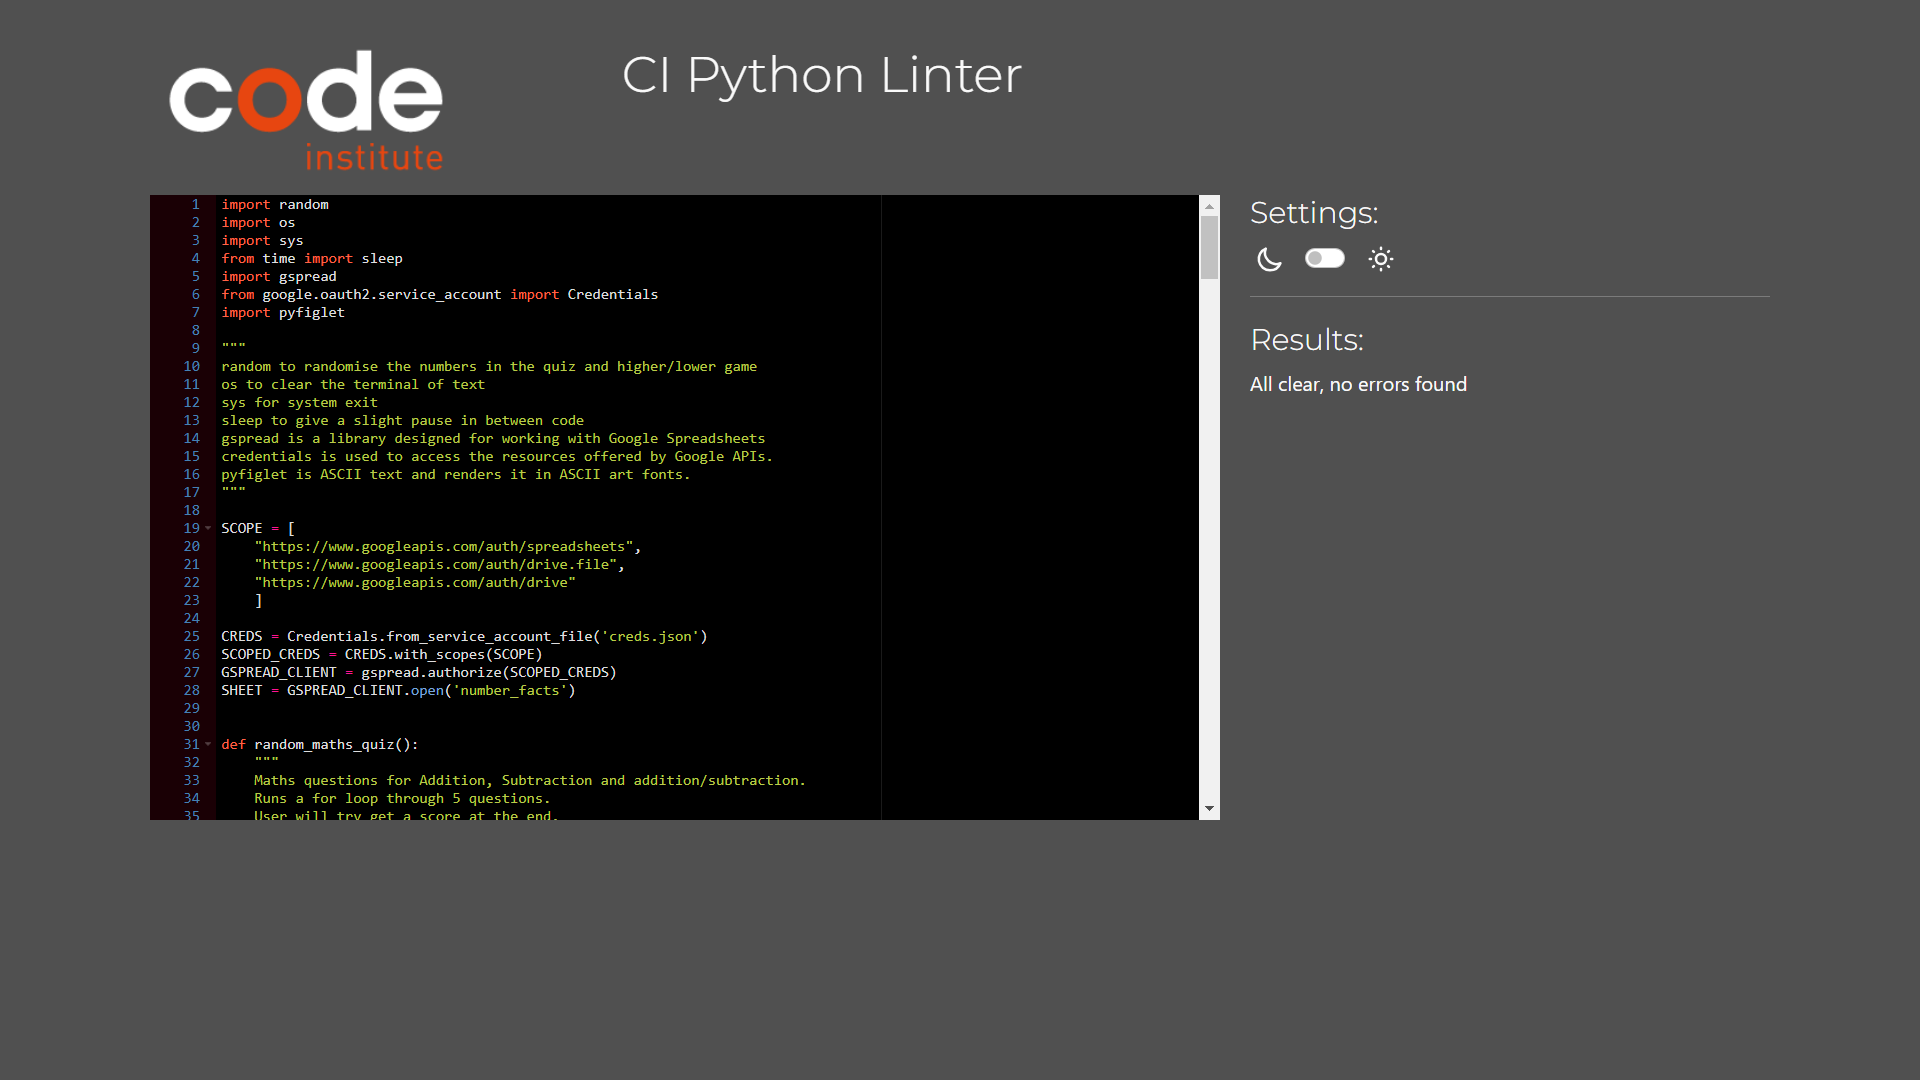
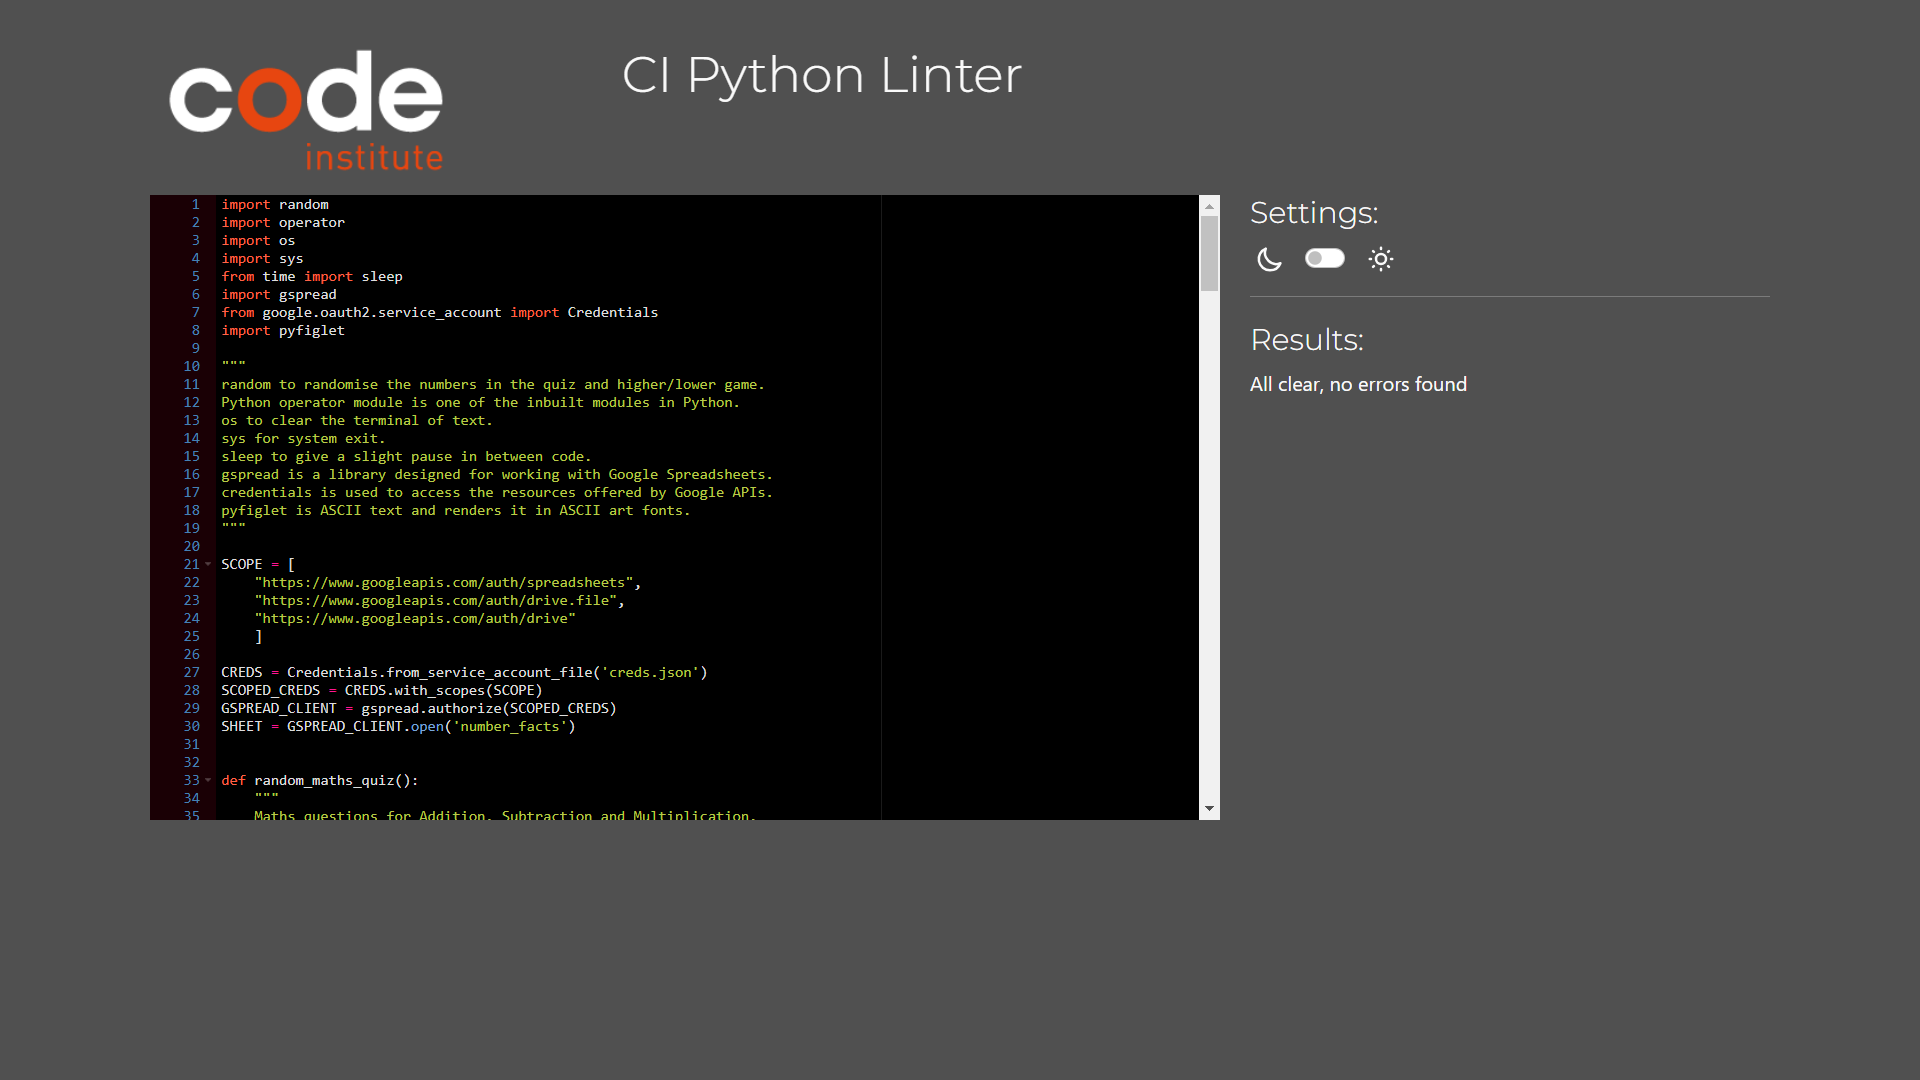
Code refactor and images updated

diff --git a/run.py b/run.py
@@ -1,4 +1,5 @@
 import random
+import operator
 import os
 import sys
 from time import sleep
@@ -7,11 +8,12 @@ from google.oauth2.service_account import Credentials
 import pyfiglet
 
 """
-random to randomise the numbers in the quiz and higher/lower game
-os to clear the terminal of text
-sys for system exit
-sleep to give a slight pause in between code
-gspread is a library designed for working with Google Spreadsheets
+random to randomise the numbers in the quiz and higher/lower game.
+Python operator module is one of the inbuilt modules in Python.
+os to clear the terminal of text.
+sys for system exit.
+sleep to give a slight pause in between code.
+gspread is a library designed for working with Google Spreadsheets.
 credentials is used to access the resources offered by Google APIs.
 pyfiglet is ASCII text and renders it in ASCII art fonts.
 """
@@ -30,148 +32,12 @@ SHEET = GSPREAD_CLIENT.open('number_facts')
 
 def random_maths_quiz():
     """
-    Maths questions for Addition, Subtraction and addition/subtraction.
+    Maths questions for Addition, Subtraction and Multiplication.
     Runs a for loop through 5 questions.
-    User will try get a score at the end.
+    User will get a score shown at the end.
     if the user inputs a wrong character the question will be marked wrong.
     User is asked if they want to play another game.
     """
-
-    def addition():
-        score = 0
-        print("Addition Maths")
-        for i in range(5):
-            num1 = random.randint(1, 5)
-            num2 = random.randint(1, 5)
-            result = num1 + num2
-            guess_input = input(f"What is {num1} + {num2} =\n")
-
-            try:
-                guess_input = int(guess_input)
-                if guess_input == result:
-                    print("CORRECT")
-                    print("---------------------")
-                    score += 1
-
-                elif guess_input != result:
-                    print("WRONG")
-                    print("---------------------")
-
-                else:
-                    print("Something went wrong")
-                    print("---------------------")
-
-            except ValueError:
-                i += 1
-                print("WRONG")
-                print("Please pick a number")
-                print("---------------------")
-
-        print(f"You got {score} out of 5")
-        print("--------------------------")
-        play_again()
-
-    def subtraction():
-        score = 0
-        print("Subtraction Maths")
-        for i in range(5):
-            num1 = random.randint(5, 10)
-            num2 = random.randint(1, 5)
-            result = num1 - num2
-            guess_input = input(f"What is {num1} - {num2} =\n")
-
-            try:
-                guess_input = int(guess_input)
-                if guess_input == result:
-                    print("CORRECT")
-                    print("---------------------")
-
-                    score += 1
-                elif guess_input != result:
-                    print("WRONG")
-                    print("---------------------")
-
-                else:
-                    print("Something went wrong")
-                    print("---------------------")
-
-            except ValueError:
-                i += 1
-                print("WRONG")
-                print("Please pick a number")
-                print("---------------------")
-
-        print(f"You got {score} out of 5")
-        print("--------------------------")
-        play_again()
-
-    def multiplication():
-        score = 0
-        print("Multiplication Maths")
-        for i in range(5):
-            num1 = random.randint(1, 5)
-            num2 = random.randint(1, 5)
-            result = num1 * num2
-            guess_input = input(f"What is {num1} * {num2} =\n")
-
-            try:
-                guess_input = int(guess_input)
-                if guess_input == result:
-                    print("CORRECT")
-                    print("---------------------")
-                    score += 1
-
-                elif guess_input != result:
-                    print("WRONG")
-                    print("---------------------")
-
-                else:
-                    print("Something went wrong")
-                    print("---------------------")
-
-            except ValueError:
-                i += 1
-                print("WRONG")
-                print("Please pick a number")
-                print("---------------------")
-
-        print(f"You got {score} out of 5")
-        print("--------------------------")
-        play_again()
-
-    def division():
-        score = 0
-        print("Division Maths")
-        for i in range(5):
-            num1 = random.randint(1, 10)
-            num2 = random.randint(1, 5)
-            result = num1 // num2
-            guess_input = input(f"What is {num1} / {num2} =\n")
-
-            try:
-                guess_input = int(guess_input)
-                if guess_input == result:
-                    print("CORRECT")
-                    print("---------------------")
-                    score += 1
-
-                elif guess_input != result:
-                    print("WRONG")
-                    print("---------------------")
-
-                else:
-                    print("Something went wrong")
-                    print("---------------------")
-
-            except ValueError:
-                i += 1
-                print("WRONG")
-                print("Please pick a number")
-                print("---------------------")
-
-        print(f"You got {score} out of 5")
-        print("--------------------------")
-        play_again()
 
     print("Welcome to Maths Questions")
     choice_input = input(
@@ -179,33 +45,80 @@ def random_maths_quiz():
         "\n1 = Addition" +
         "\n2 = Subtraction" +
         "\n3 = Multiplication" +
-        "\n4 = Division \n")
+        "\n4 = Exit Terminal \n")
+
+    symbol = {
+        '+': operator.add,
+        '-': operator.sub,
+        '*': operator.mul
+    }
 
     try:
         choice_input = int(choice_input)
         if choice_input == 1:
-            os.system('clear')
-            addition()
+            symbol = "+"
+            a = 1
+            b = 5
+            c = 1
+            d = 5
 
         elif choice_input == 2:
-            os.system('clear')
-            subtraction()
+            symbol = "-"
+            a = 5
+            b = 10
+            c = 1
+            d = 5
 
         elif choice_input == 3:
-            os.system('clear')
-            multiplication()
+            symbol = "*"
+            a = 1
+            b = 5
+            c = 1
+            d = 5
 
         elif choice_input == 4:
-            os.system('clear')
-            division()
+            exit_terminal()
 
         else:
-            os.system('clear')
             random_maths_quiz()
+
     except ValueError:
         print("Please pick a number")
-        sleep(2)
         random_maths_quiz()
+
+    score = 0
+    for i in range(5):
+        num1 = random.randint(a, b)
+        num2 = random.randint(c, d)
+
+        expr = '{} {} {}'.format(num1, symbol, num2)
+        result = eval(expr)
+        guess_input = input(f"What is {num1} {symbol} {num2} =\n")
+
+        try:
+            guess_input = int(guess_input)
+            if guess_input == result:
+                print("CORRECT")
+                print("---------------------")
+                score += 1
+
+            elif guess_input != result:
+                print("WRONG")
+                print("---------------------")
+
+            else:
+                print("Something went wrong")
+                print("---------------------")
+
+        except ValueError:
+            i += 1
+            print("WRONG")
+            print("Please pick a number")
+            print("---------------------")
+
+    print(f"You got {score} out of 5")
+    print("--------------------------")
+    play_again()
 
 
 def higher_lower():
@@ -265,20 +178,19 @@ def number_facts():
     facts_row = random.choice(facts)
     print(", ".join(facts_row))
     print("---------------------")
-    num_facts_input = input(
-        "Would you like to another fact?\nY/N\n").lower()
+    while True:
+        try:
+            num_facts_input = input(
+                "Would you like to another fact?\nY/N\n").lower()
+            if num_facts_input == "y":
+                print("---------------------")
+                number_facts()
 
-    if num_facts_input == "y":
-        print("---------------------")
-        number_facts()
+            elif num_facts_input == "n":
+                main()
 
-    elif num_facts_input == "n":
-        main()
-
-    else:
-        sleep(1)
-        os.system('clear')
-        main()
+        except ValueError:
+            print("Please pick Y or N")
 
 
 def play_again():

diff --git a/README.md b/README.md
@@ -7,22 +7,20 @@ Numbers is a great way to help get kids into maths and using some basic logic.
 This game is built for children who are at the age of learning basic math.
 It has a maths game that gives 5 questions with random numbers that focuses on basic math questions in four topics "Addition, Subtraction, Multiplicat and Division". 
 It also has a higher or lower game that helps users use logic to guess the correct number but also brings a bit of fun when comparing scores with parents.
-Then to finish it off I have some fun 17 facts about numbers just for a bit of ectra knowledge.
+Then to finish it off I have some fun 17 facts about numbers just for a bit of extra knowledge.
 
 ![Thanks You](https://github.com/JosephOConnell/Numbers/blob/main/images/thanks.png)
 
 - **random_maths_quiz**
-  - The random math quiz consists of four topics:
+  - The random math quiz consists of three topics:
    - Addition: This operation is used when you want to find the total, or sum, of two or more amounts.
    - Subtraction: This operation is used when you want to find the difference between two amounts or how much of something you have left after a quantity is used. For example, if you want to find the change owed after spending an amount of money.
-   - Division: Division is used when sharing or grouping items. For example, if you want to know how many doughnuts you can buy with €6 if one doughnut costs €1.50, you would do €6 ÷ €1.50.
    - Multiplication : This operation is also used for totals and sums but when there is more than one of the same number. For example if you are buying five packs of apples that cost £1.20 each, you would do 5 * €1.20.
   
   ![Random Math Quiz](https://github.com/JosephOConnell/Numbers/blob/main/images/maths.png)
   ![Addition](https://github.com/JosephOConnell/Numbers/blob/main/images/addition.png)
   ![Subtraction](https://github.com/JosephOConnell/Numbers/blob/main/images/subtraction.png)
   ![Multiplication](https://github.com/JosephOConnell/Numbers/blob/main/images/multiply.png)
-  ![Division](https://github.com/JosephOConnell/Numbers/blob/main/images/division.png)
 
 - **higher_lower** 
   - The Higher-Lower game is a simple guessing game where the player tries to guess a randomly chosen number within a specified range.
@@ -43,7 +41,7 @@ Then to finish it off I have some fun 17 facts about numbers just for a bit of e
     ![Simple Maths Flowchart](https://github.com/JosephOConnell/Numbers/blob/main/images/simplemaths_flowchart.png)
     - Higher or Lower Flowchart
     ![Higher / Lower Flowchart](https://github.com/JosephOConnell/Numbers/blob/main/images/higherlower_flowchart.png)
-    - Number Facts Flowchart
+    - Facts About Numbers Flowchart
     ![Number Facts Flowchart](https://github.com/JosephOConnell/Numbers/blob/main/images/numberfacts_flowchart.png)
 
 ### Testing
